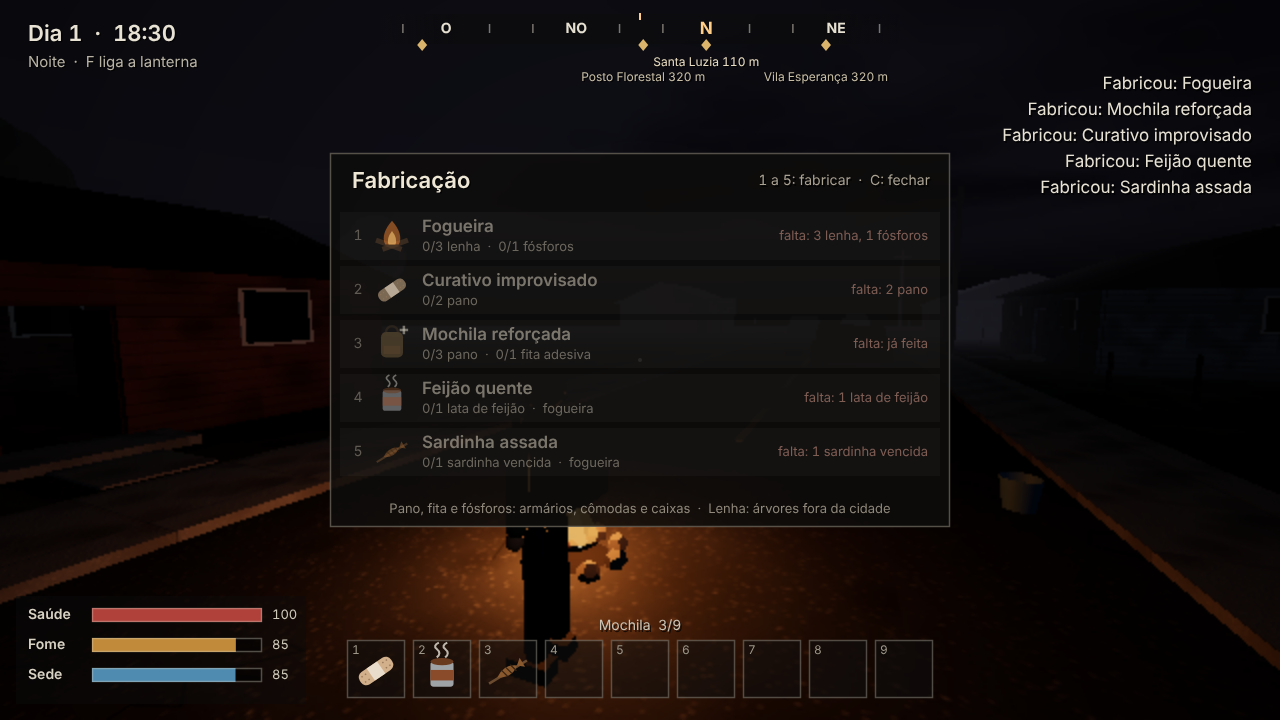
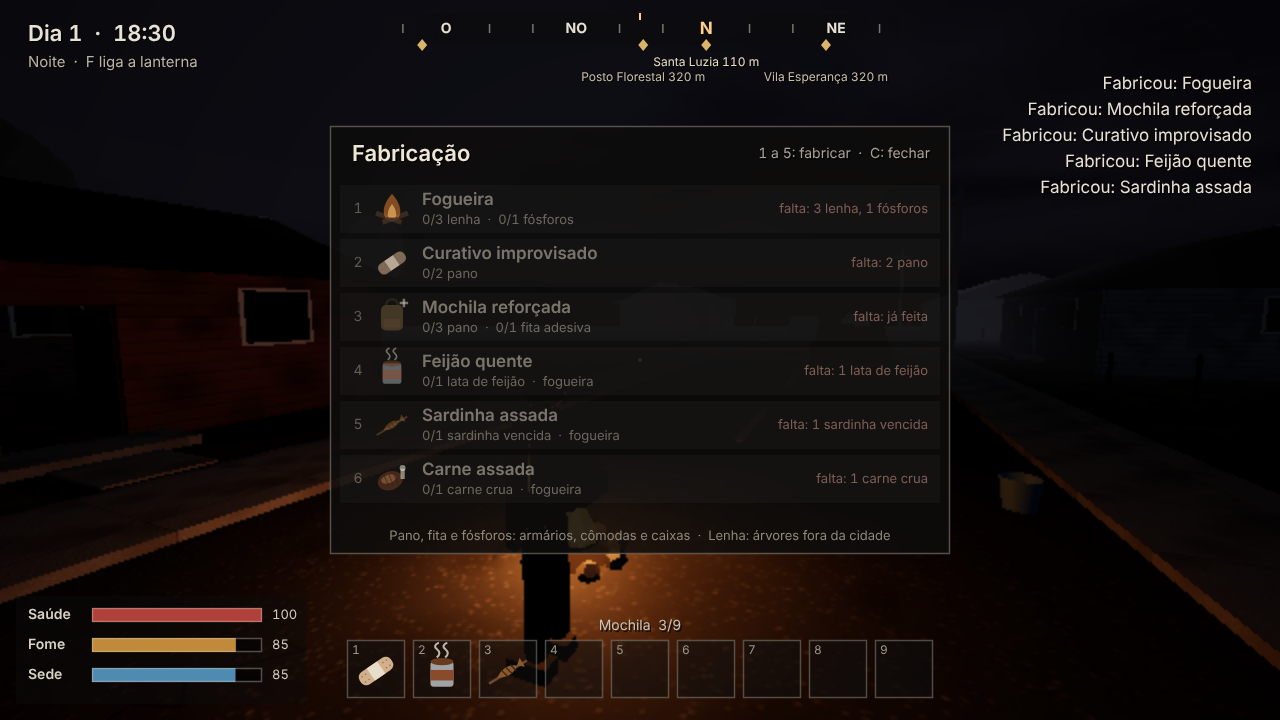
feat: animais para caçar (cervo, javali, coelho) e carne
Animais pastam e andam pelas florestas e campos, fogem do barulho, de
tiros e de quem chega perto; javali ferido ataca. Abatido, segura E para
esfolar e pegar carne crua, que faz mal crua e vira carne assada na
fogueira. Até 10 animais em volta (6 no celular).

Story: SPIKE sobrevivencia-spike-2026-11-20

Claude-Session: https://claude.ai/code/session_013o8aek17KGRmKMrjDa2EVT

diff --git a/prototypes/sobrevivencia-spike-2026-11-20/index.html b/prototypes/sobrevivencia-spike-2026-11-20/index.html
@@ -333,6 +333,8 @@ const sfx = {
     noise(G[0], G[1], G[2], 0.6); tone(G[3], G[0] * 1.2, 'sine', 0.6, -30); noise(G[0] * 3, 400, G[2] * 0.25, 0.5, 0.12); noise(G[0] * 4, 250, G[2] * 0.12, 0.5, 0.35); // crack, thump, echoes
   },
   dry: () => tone(2400, 0.03, 'square', 0.08),
+  animalHurt: k => k === 'javali' ? (tone(140, 0.3, 'sawtooth', 0.12, -60), noise(0.25, 300, 0.2, 2)) : k === 'cervo' ? tone(700, 0.35, 'sine', 0.1, -300) : tone(1500, 0.15, 'sine', 0.08, 600),
+  animalAlarm: (k, d) => { const v = Math.max(0.02, 0.12 * (1 - d / 60)); if (k === 'cervo') tone(900, 0.2, 'sine', v, -400); else if (k === 'javali') { tone(110, 0.25, 'sawtooth', v, 20); noise(0.2, 250, v * 1.5, 2); } else noise(0.08, 3000, v * 0.6, 2); },
   reloadStart: () => { noise(0.06, 2000, 0.15, 3); noise(0.05, 1500, 0.12, 3, 0.25); },
   reloadEnd: () => { noise(0.05, 2600, 0.2, 4); tone(900, 0.04, 'square', 0.06); },
   gunPick: () => { noise(0.05, 2200, 0.15, 3); noise(0.06, 1200, 0.1, 2, 0.08); },
@@ -365,6 +367,10 @@ const ITEMS = {
   bala_escopeta: { name: 'Cartucho de escopeta', ammo: true, material: true },
   bala_sniper: { name: 'Munição de sniper', ammo: true, material: true },
   bala_fuzil: { name: 'Munição de fuzil', ammo: true, material: true },
+  carne_crua: {
+    name: 'Carne crua', use() { need('hunger', tune.raw_meat_food); sfx.eat(); if (rng() < tune.raw_meat_sick_chance) { state.sick = tune.sick_time; say('A carne crua fez mal.'); sfx.sick(); } },
+  },
+  carne_assada: { name: 'Carne assada', use() { need('hunger', tune.cooked_meat_food); sfx.eat(); } },
   pano: { name: 'Pano', material: true },
   fita: { name: 'Fita adesiva', material: true },
   fosforos: { name: 'Fósforos', material: true },
@@ -1386,13 +1392,14 @@ function removeItems(id, n) {
 }
 
 // ---- Crafting ------------------------------------------------------------------------------
-const WHERE = { pano: 'armários, cômodas e caixas', fita: 'caixas e armários', fosforos: 'cômodas e armários', lenha: 'árvores fora da cidade', feijao: 'armários', sardinha: 'armários e geladeiras' };
+const WHERE = { carne_crua: 'animais caçados', pano: 'armários, cômodas e caixas', fita: 'caixas e armários', fosforos: 'cômodas e armários', lenha: 'árvores fora da cidade', feijao: 'armários', sardinha: 'armários e geladeiras' };
 const RECIPES = [
   { id: 'fogueira', name: 'Fogueira', needs: { lenha: 3, fosforos: 1 }, what: 'ilumina a noite e cozinha', make: () => placeFire() },
   { id: 'curativo', name: 'Curativo improvisado', needs: { pano: 2 }, out: 'curativo', what: '+saúde' },
   { id: 'mochila', name: 'Mochila reforçada', needs: { pano: 3, fita: 1 }, once: true, what: () => `+${tune.craft_extra_slots} espaços`, make: () => { state.extraSlots += tune.craft_extra_slots; } },
   { id: 'feijao_quente', name: 'Feijão quente', needs: { feijao: 1 }, fire: true, out: 'feijao_quente', what: () => `enche ${tune.beans_cooked_food} de fome` },
   { id: 'sardinha_assada', name: 'Sardinha assada', needs: { sardinha: 1 }, fire: true, out: 'sardinha_assada', what: 'sem risco de passar mal' },
+  { id: 'carne_assada', name: 'Carne assada', needs: { carne_crua: 1 }, fire: true, out: 'carne_assada', what: () => `enche ${tune.cooked_meat_food} de fome` },
 ];
 // What stops a recipe right now, in words; empty when it can be made.
 function missing(r) {
@@ -1674,7 +1681,118 @@ const BROKEN_GLASS = new THREE.MeshStandardMaterial({ color: 0x4a5560, roughness
 // noise: every animal within the radius hears it
 const animals = [];
 function makeNoise(x, z, r) { for (const a of animals) if (!a.dead && Math.hypot(a.x - x, a.z - z) < r) a.heard = { x, z, t: 3 }; }
-function hurtAnimal(a, dmg) {} // filled in by the animals module
+// ---- Animals to hunt: deer, boar, rabbits ------------------------------------------------------
+// They graze and wander, flee from noise and from you, and a hurt boar charges. A dead one can be
+// skinned (hold E) for raw meat, which must be cooked at a fire.
+const AN = CONFIG.fauna;
+const AMAT = {
+  deer: new THREE.MeshStandardMaterial({ color: 0x7a5636, roughness: 0.9 }), deerBelly: new THREE.MeshStandardMaterial({ color: 0xb59a78, roughness: 0.9 }),
+  boar: new THREE.MeshStandardMaterial({ color: 0x3e3530, roughness: 1 }), rabbit: new THREE.MeshStandardMaterial({ color: 0x8a7c68, roughness: 1 }),
+  dark: new THREE.MeshStandardMaterial({ color: 0x1c1714, roughness: 0.8 }), horn: new THREE.MeshStandardMaterial({ color: 0xd8cbb0, roughness: 0.6 }),
+};
+function makeAnimalMesh(kind) {
+  const g = new THREE.Group(), body = new THREE.Group(); g.add(body);
+  const m = (geo, mat, x, y, z, parent = body) => { const o = new THREE.Mesh(geo, mat); o.position.set(x, y, z); o.castShadow = true; parent.add(o); return o; };
+  const legs = [];
+  const leg = (x, z, len, r, mat, y) => { const pv = new THREE.Group(); pv.position.set(x, y, z); body.add(pv); m(new THREE.CylinderGeometry(r, r * 0.7, len, 6), mat, 0, -len / 2, 0, pv); legs.push(pv); };
+  let head;
+  if (kind === 'cervo') {
+    m(new THREE.CapsuleGeometry(0.24, 0.75, 4, 10), AMAT.deer, 0, 1.0, 0).rotation.x = Math.PI / 2;
+    m(new THREE.CapsuleGeometry(0.17, 0.5, 4, 8), AMAT.deerBelly, 0, 0.92, 0.02).rotation.x = Math.PI / 2;
+    const neck = m(new THREE.CylinderGeometry(0.09, 0.13, 0.55, 8), AMAT.deer, 0, 1.3, -0.5); neck.rotation.x = -0.6;
+    head = new THREE.Group(); head.position.set(0, 1.55, -0.68); body.add(head);
+    m(new THREE.BoxGeometry(0.14, 0.15, 0.32), AMAT.deer, 0, 0, -0.08, head); m(new THREE.BoxGeometry(0.08, 0.07, 0.06), AMAT.dark, 0, -0.03, -0.25, head);
+    for (const sx of [-1, 1]) { m(new THREE.ConeGeometry(0.05, 0.16, 5), AMAT.deer, sx * 0.09, 0.1, 0.04, head).rotation.z = sx * -0.7;
+      const ant = m(new THREE.CylinderGeometry(0.012, 0.02, 0.4, 5), AMAT.horn, sx * 0.07, 0.25, 0.02, head); ant.rotation.z = sx * -0.35;
+      m(new THREE.CylinderGeometry(0.01, 0.015, 0.18, 4), AMAT.horn, sx * 0.13, 0.35, -0.04, head).rotation.x = -0.8; }
+    for (const [x, z] of [[-0.13, -0.38], [0.13, -0.38], [-0.13, 0.38], [0.13, 0.38]]) leg(x, z, 0.85, 0.045, AMAT.deer, 0.88);
+    m(new THREE.ConeGeometry(0.05, 0.14, 5), AMAT.deerBelly, 0, 1.08, 0.52).rotation.x = 2.2;
+  } else if (kind === 'javali') {
+    const b = m(new THREE.CapsuleGeometry(0.3, 0.6, 4, 10), AMAT.boar, 0, 0.6, 0); b.rotation.x = Math.PI / 2; b.scale.set(1, 1, 1.15);
+    m(new THREE.BoxGeometry(0.12, 0.25, 0.7), AMAT.dark, 0, 0.92, -0.05); // bristly ridge
+    head = new THREE.Group(); head.position.set(0, 0.6, -0.55); body.add(head);
+    m(new THREE.ConeGeometry(0.22, 0.45, 8), AMAT.boar, 0, 0, -0.18, head).rotation.x = -Math.PI / 2;
+    m(new THREE.CylinderGeometry(0.07, 0.07, 0.06, 8), AMAT.dark, 0, -0.02, -0.42, head).rotation.x = Math.PI / 2;
+    for (const sx of [-1, 1]) { m(new THREE.ConeGeometry(0.015, 0.12, 4), AMAT.horn, sx * 0.08, -0.06, -0.36, head).rotation.x = -2.4; m(new THREE.ConeGeometry(0.05, 0.12, 4), AMAT.boar, sx * 0.12, 0.17, 0.02, head); }
+    for (const [x, z] of [[-0.15, -0.3], [0.15, -0.3], [-0.15, 0.32], [0.15, 0.32]]) leg(x, z, 0.42, 0.06, AMAT.dark, 0.42);
+  } else {
+    const b = m(new THREE.SphereGeometry(0.15, 10, 8), AMAT.rabbit, 0, 0.17, 0.02); b.scale.set(0.85, 0.85, 1.25);
+    head = new THREE.Group(); head.position.set(0, 0.27, -0.16); body.add(head);
+    m(new THREE.SphereGeometry(0.08, 10, 8), AMAT.rabbit, 0, 0, 0, head);
+    for (const sx of [-1, 1]) m(new THREE.CapsuleGeometry(0.02, 0.13, 3, 6), AMAT.rabbit, sx * 0.035, 0.12, 0.03, head).rotation.x = 0.3;
+    m(new THREE.SphereGeometry(0.04, 6, 5), AMAT.deerBelly, 0, 0.2, 0.2);
+    for (const [x, z] of [[-0.06, -0.08], [0.06, -0.08], [-0.07, 0.1], [0.07, 0.1]]) leg(x, z, 0.12, 0.025, AMAT.rabbit, 0.1);
+  }
+  world.add(g); return { g, body, legs, head };
+}
+function spawnAnimal(kind, x, z) {
+  const d = AN[kind], v = makeAnimalMesh(kind);
+  const a = { kind, x, z, yaw: rng() * 6.28, hp: d.hp, r: d.r, h: d.h, mode: 'idle', t: 1 + rng() * 3, tx: x, tz: z, phase: 0, speed: 0, dead: false, fallen: 0, cool: 0, heard: null, ...v };
+  animals.push(a); placeAnimal(a); return a;
+}
+function placeAnimal(a) { a.g.position.set(a.x, 0, a.z); a.g.rotation.y = a.yaw; }
+function freeSpot(x, z) {
+  return !roadRects.some(r => x > r[0] && x < r[1] && z > r[2] && z < r[3]) && !footprints.some(r => x > r[0] - 3 && x < r[1] + 3 && z > r[2] - 3 && z < r[3] + 3) && !lakes.some(l => Math.hypot(x - l.x, z - l.z) < l.r + 3);
+}
+function animalBlocked(x, z, r) {
+  for (const b of boxesNear(x, z)) if (x > b.x0 - r && x < b.x1 + r && z > b.z0 - r && z < b.z1 + r) return true;
+  return lakes.some(l => Math.hypot(x - l.x, z - l.z) < l.r + r);
+}
+function hurtAnimal(a, dmg) {
+  if (a.dead) return;
+  a.hp -= dmg; sfx.animalHurt(a.kind);
+  if (a.hp <= 0) { a.dead = true; a.mode = 'dead'; a.skinned = false; say(`Você abateu ${AN[a.kind].article}.`); return; }
+  const s = state;
+  if (a.kind === 'javali') { a.mode = 'charge'; a.t = 8; } else { a.mode = 'flee'; a.t = 6; a.tx = a.x + (a.x - s.x) * 3; a.tz = a.z + (a.z - s.z) * 3; }
+}
+function stepAnimals(dt) {
+  const s = state, maxN = LIGHT ? tune.animals_mobile : tune.animals;
+  // keep a herd around you: spawn out of sight, drop the far ones
+  if (Math.floor(s.t * 60) % 120 === 0) {
+    for (let i = animals.length - 1; i >= 0; i--) { const a = animals[i]; if (Math.hypot(a.x - s.x, a.z - s.z) > 280) { world.remove(a.g); animals.splice(i, 1); } }
+    if (animals.filter(a => !a.dead).length < maxN) {
+      const ang = rng() * 6.28, dist = 90 + rng() * 80, x = s.x + Math.cos(ang) * dist, z = s.z + Math.sin(ang) * dist;
+      if (freeSpot(x, z)) { const r = rng(); spawnAnimal(r < 0.4 ? 'coelho' : r < 0.78 ? 'cervo' : 'javali', x, z); }
+    }
+  }
+  for (const a of animals) {
+    const d = AN[a.kind];
+    if (a.dead) { a.fallen = Math.min(1, a.fallen + dt * 2.5); a.body.rotation.z = a.fallen * Math.PI / 2; a.body.position.y = -a.fallen * a.h * 0.05; continue; }
+    const pd = Math.hypot(s.x - a.x, s.z - a.z);
+    // senses: noise, and you, closer when you run, farther when you crouch still
+    const loud = s.driving ? 60 : s.speedNow > 4.5 ? d.notice * 1.4 : s.speedNow > 0.5 ? d.notice : d.notice * 0.45;
+    if (a.mode !== 'charge' && a.mode !== 'flee' && (pd < loud || a.heard)) {
+      const fx = a.heard ? a.heard.x : s.x, fz = a.heard ? a.heard.z : s.z;
+      a.mode = 'flee'; a.t = 5 + rng() * 3; a.tx = a.x + (a.x - fx) * 4; a.tz = a.z + (a.z - fz) * 4; sfx.animalAlarm(a.kind, pd);
+    }
+    a.heard = null; a.t -= dt; a.cool -= dt;
+    let speed = 0;
+    if (a.mode === 'idle') { if (a.t <= 0) { a.mode = 'walk'; a.t = 3 + rng() * 5; const ang = rng() * 6.28; a.tx = a.x + Math.cos(ang) * 12; a.tz = a.z + Math.sin(ang) * 12; } }
+    else if (a.mode === 'walk') { speed = d.walk; if (a.t <= 0 || Math.hypot(a.tx - a.x, a.tz - a.z) < 1) { a.mode = 'idle'; a.t = 2 + rng() * 5; } }
+    else if (a.mode === 'flee') { speed = d.run; if (a.t <= 0) { a.mode = 'idle'; a.t = 2; } }
+    else if (a.mode === 'charge') {
+      speed = d.run; a.tx = s.x; a.tz = s.z;
+      if (pd < 1.5 && a.cool <= 0 && !s.driving) { s.health -= d.damage; a.cool = 1.3; say(`O javali te atacou! -${d.damage}`); sfx.thud(); sfx.animalHurt('javali'); }
+      if (a.t <= 0 || pd > 45) { a.mode = 'flee'; a.t = 4; }
+    }
+    if (speed > 0) {
+      const want = Math.atan2(-(a.tx - a.x), -(a.tz - a.z)); a.yaw = lerpAngle(a.yaw, want, Math.min(1, 5 * dt));
+      const nx = a.x - Math.sin(a.yaw) * speed * dt, nz = a.z - Math.cos(a.yaw) * speed * dt;
+      if (!animalBlocked(nx, nz, a.r)) { a.x = nx; a.z = nz; } else { a.yaw += 1.2 + rng(); a.tx = a.x - Math.sin(a.yaw) * 15; a.tz = a.z - Math.cos(a.yaw) * 15; }
+    }
+    a.speed = speed; a.phase += speed * dt * (a.kind === 'coelho' ? 9 : 3.2);
+    placeAnimal(a);
+    const sw = Math.sin(a.phase) * Math.min(1, speed / 2) * (a.kind === 'coelho' ? 0.9 : 0.6);
+    a.legs.forEach((l, i) => l.rotation.x = (a.kind === 'coelho' ? (i < 2 ? sw : sw) : (i === 0 || i === 3 ? sw : -sw)));
+    if (a.kind === 'coelho') a.body.position.y = Math.max(0, Math.sin(a.phase)) * 0.12 * Math.min(1, speed);
+    a.head.rotation.x = a.mode === 'idle' ? 0.5 + Math.sin(s.t * 1.3 + a.x) * 0.1 : 0; // grazing
+  }
+}
+function carcassNear() {
+  let best = null, bd = 2.2;
+  for (const a of animals) if (a.dead && !a.skinned) { const d = Math.hypot(a.x - state.x, a.z - state.z); if (d < bd) { bd = d; best = a; } }
+  return best;
+}
 function stepGuns(dt) {
   const s = state;
   if (s.cool > 0) s.cool -= dt;
@@ -1736,11 +1854,12 @@ function reset() {
     x: 0, z: 118, px: 0, pz: 118, yaw: 0, pitch: 0,
     hour: sh !== null ? Number(sh) : tune.start_hour, startHour: sh !== null ? Number(sh) : tune.start_hour,
     health: 100, hunger: tune.start_hunger, thirst: tune.start_thirst, sick: 0,
-    inv: [{ id: 'agua', n: 1 }, { id: 'cereal', n: 1 }], extraSlots: 0, craftOpen: false, gun: null, aiming: false, reload: null, cool: 0, kick: 0, flashT: 0, pickAnim: 0, guns: Object.fromEntries(Object.keys(CONFIG.guns).map(g => [g, { has: false, mag: 0 }])), driving: null, hold: null, act: null, y: 0, air: false, airVy: 0, lookT: 9, found: ['Santa Luzia'], chop: null, tree: null, flash: false, search: null, aim: null, msgs: [],
+    inv: [{ id: 'agua', n: 1 }, { id: 'cereal', n: 1 }], extraSlots: 0, craftOpen: false, skin: null, carcass: null, gun: null, aiming: false, reload: null, cool: 0, kick: 0, flashT: 0, pickAnim: 0, guns: Object.fromEntries(Object.keys(CONFIG.guns).map(g => [g, { has: false, mag: 0 }])), driving: null, hold: null, act: null, y: 0, air: false, airVy: 0, lookT: 9, found: ['Santa Luzia'], chop: null, tree: null, flash: false, search: null, aim: null, msgs: [],
     walked: 0, bob: 0, heart: 0, face: 0, crouch: 0, speedNow: 0, searched: 0, eaten: 0, days: 0, dead: false,
   };
   for (const c of containers) { c.items = fillContainer(c); c.searched = false; c.refillAt = 0; }
   clearFires(); for (const d of decals) d.parent && d.parent.remove(d); decals.length = 0;
+  for (const a of animals) world.remove(a.g); animals.length = 0;
   if (playerBody.world !== phys) phys.addBody(playerBody);
   playerBody.position.set(state.x, 0.05, state.z); playerBody.velocity.setZero();
   for (const c of cars) c.fuel = Math.floor(rng() * tune.car_start_fuel_max);
@@ -2100,7 +2219,8 @@ const scenes = {
         if (Math.hypot(f.x - s.x, f.z - s.z) < 25) say('A fogueira apagou.');
       }
       if (pressed('KeyF')) { s.flash = !s.flash; sfx.click(); }
-      stepGuns(dt); stepParticles(dt); if (s.pickAnim > 0) s.pickAnim -= dt;
+      stepGuns(dt); stepParticles(dt); stepAnimals(dt); if (s.pickAnim > 0) s.pickAnim -= dt;
+      if (!s.driving && s.speedNow > 4.5 && Math.floor(s.t * 60) % 20 === 0) makeNoise(s.x, s.z, 22);
       // search
       placeCamera();
       const c = s.driving ? null : aimContainer(); s.aim = c;
@@ -2123,7 +2243,19 @@ const scenes = {
         if (s.act && pressed('KeyE')) doAct(s.act);
       }
       if (pressed('KeyG') && !s.driving) grabOrThrow();
-      const tr = c || s.act || s.driving ? null : aimTree(); s.tree = tr;
+      const carc = c || s.act || s.driving ? null : carcassNear(); s.carcass = carc;
+      if (carc && down.has('KeyE')) {
+        if (!s.skin || s.skin.a !== carc) s.skin = { a: carc, p: 0, n: 0 };
+        s.skin.p += dt / tune.skin_time; if (s.skin.p * 6 > s.skin.n) { s.skin.n++; sfx.rustle(); }
+        s.face = lerpAngle(s.face, Math.atan2(-(carc.x - s.x), -(carc.z - s.z)), Math.min(1, 10 * dt));
+        if (s.skin.p >= 1) {
+          carc.skinned = true; s.skin = null; let got = 0;
+          for (let i = 0; i < AN[carc.kind].meat; i++) if (addItem('carne_crua')) got++;
+          say(got ? `Pegou: ${got} × Carne crua` : 'Mochila cheia.'); sfx.pick(); s.pickAnim = 0.7;
+          setTimeout(() => { world.remove(carc.g); const i = animals.indexOf(carc); if (i >= 0) animals.splice(i, 1); }, 0);
+        }
+      } else s.skin = null;
+      const tr = c || s.act || s.driving || carc ? null : aimTree(); s.tree = tr;
       if (tr && down.has('KeyE')) {
         if (!s.chop || s.chop.t !== tr) s.chop = { t: tr, p: 0, n: 0 };
         s.chop.p += dt / tune.chop_time;
@@ -2131,7 +2263,7 @@ const scenes = {
         s.face = lerpAngle(s.face, Math.atan2(-(tr.x - s.x), -(tr.z - s.z)), Math.min(1, 10 * dt));
         if (s.chop.p >= 1) { s.chop = null; if (addItem('lenha')) { say('Pegou: Lenha'); sfx.pick(); } else { say('Mochila cheia: sem espaço para a lenha.'); sfx.empty(); } }
       } else s.chop = null;
-      s.crouch += ((s.search ? 1 : 0) - s.crouch) * Math.min(1, 10 * dt);
+      s.crouch += ((s.search || s.skin ? 1 : 0) - s.crouch) * Math.min(1, 10 * dt);
       if (s.search) { const p = s.search.c.group.position; s.face = lerpAngle(s.face, Math.atan2(-(p.x - s.x), -(p.z - s.z)), Math.min(1, 10 * dt)); }
       for (const m of s.msgs) m.life -= dt;
       s.msgs = s.msgs.filter(m => m.life > 0);
@@ -2220,6 +2352,12 @@ function icon(id, x, y, s) { // x,y centre; every item drawn
     const col = { bala_pistola: '#c9a24a', bala_escopeta: '#a8322a', bala_sniper: '#b08a3a', bala_fuzil: '#9a8a4a' }[id];
     ctx.fillStyle = '#3b3a34'; rr(-16, -2, 32, 18, 2); ctx.fill();
     for (let i = 0; i < 4; i++) { const x = -12 + i * 8; ctx.fillStyle = col; ctx.fillRect(x - 2.5, -14, 5, 14); ctx.fillStyle = id === 'bala_escopeta' ? '#c9a24a' : '#8a6a3a'; ctx.beginPath(); ctx.moveTo(x - 2.5, -14); ctx.lineTo(x, -19); ctx.lineTo(x + 2.5, -14); ctx.fill(); }
+  } else if (id === 'carne_crua' || id === 'carne_assada') {
+    const raw = id === 'carne_crua';
+    ctx.fillStyle = raw ? '#a8353a' : '#6e3d22'; ctx.beginPath(); ctx.ellipse(-2, 2, 15, 11, -0.3, 0, Math.PI * 2); ctx.fill();
+    ctx.fillStyle = raw ? '#e6b0a8' : '#a5704a'; ctx.beginPath(); ctx.ellipse(-4, 0, 9, 5, -0.3, 0, Math.PI * 2); ctx.fill();
+    ctx.fillStyle = '#ece3cf'; ctx.fillRect(10, -12, 5, 12); ctx.beginPath(); ctx.arc(12.5, -13, 3.5, 0, Math.PI * 2); ctx.fill();
+    if (!raw) { ctx.strokeStyle = '#3a2010'; ctx.lineWidth = 1.5; for (const x of [-10, -4, 2]) { ctx.beginPath(); ctx.moveTo(x, -6); ctx.lineTo(x + 6, 8); ctx.stroke(); } }
   } else if (id === 'galao') {
     ctx.fillStyle = '#a32d22'; rr(-13, -12, 26, 30, 3); ctx.fill(); ctx.fillStyle = '#7d2019'; ctx.fillRect(-13, -12, 26, 5);
     ctx.strokeStyle = '#d9c9b0'; ctx.lineWidth = 2; ctx.beginPath(); ctx.moveTo(-9, -4); ctx.lineTo(9, 14); ctx.moveTo(9, -4); ctx.lineTo(-9, 14); ctx.stroke();
@@ -2342,6 +2480,11 @@ function drawHud(day) {
     const a = s.act, k = TOUCH ? 'VASCULHAR' : 'E';
     const label = a.kind === 'car' ? `${k}: entrar no carro  ·  combustível ${Math.round(a.car.fuel)}%` : a.kind === 'door' ? `${k}: ${a.door.open ? 'fechar' : 'abrir'} a porta` : `${k}: abastecer o carro (${a.pump.uses} restam)`;
     shadowText(label, W / 2, H / 2 + 48, 20, '#fff');
+  } else if (s.skin) {
+    shadowText('Esfolando…', W / 2, H / 2 + 48, 20, '#fff');
+    ctx.fillStyle = 'rgba(0,0,0,0.6)'; ctx.fillRect(W / 2 - 90, H / 2 + 66, 180, 8); ctx.fillStyle = '#b0413a'; ctx.fillRect(W / 2 - 90, H / 2 + 66, 180 * Math.min(1, s.skin.p), 8);
+  } else if (s.carcass) {
+    shadowText(`${TOUCH ? 'Segure VASCULHAR' : 'Segure E'}: esfolar ${AN[s.carcass.kind].name}`, W / 2, H / 2 + 48, 20, '#fff');
   } else if (s.chop) {
     shadowText('Cortando lenha…', W / 2, H / 2 + 48, 20, '#fff');
     ctx.fillStyle = 'rgba(0,0,0,0.6)'; ctx.fillRect(W / 2 - 90, H / 2 + 66, 180, 8);

diff --git a/prototypes/sobrevivencia-spike-2026-11-20/config.js b/prototypes/sobrevivencia-spike-2026-11-20/config.js
@@ -79,6 +79,14 @@ window.CONFIG = {
   gun_find_mult: { value: 1, min: 0, max: 5, step: 0.1 },       // multiplica a chance de achar armas
   max_decals: { value: 80, min: 10, max: 300, step: 10 },       // marcas de tiro no mundo
 
+  // --- Animais ---
+  animals: { value: 10, min: 0, max: 40, step: 1 },             // vivos em volta (computador)
+  animals_mobile: { value: 6, min: 0, max: 30, step: 1 },       // vivos em volta (celular)
+  skin_time: { value: 3, min: 0.5, max: 10, step: 0.25 },       // segundos segurando E para esfolar
+  raw_meat_food: { value: 20, min: 0, max: 100, step: 1 },
+  raw_meat_sick_chance: { value: 0.6, min: 0, max: 1, step: 0.05 },
+  cooked_meat_food: { value: 45, min: 0, max: 100, step: 1 },
+
   // --- Câmera em terceira pessoa ---
   cam_distance: { value: 2.8, min: 1, max: 6, step: 0.1 },    // m atrás do personagem
   cam_shoulder: { value: 0.55, min: -1.5, max: 1.5, step: 0.05 }, // m para o lado (positivo: ombro direito)
@@ -102,6 +110,14 @@ window.CONFIG = {
   fog_night_far: { value: 50, min: 15, max: 150, step: 5 },   // m à noite
 
   volume: { value: 0.5, min: 0, max: 1, step: 0.05 },
+
+  // Animais: vida, velocidade andando e fugindo (m/s), raio para o tiro (m), altura (m), carne,
+  // distância em que te percebem andando (m), dano do ataque (javali).
+  fauna: {
+    cervo: { name: 'o cervo', article: 'um cervo', hp: 80, walk: 1.4, run: 9, r: 0.55, h: 1.5, meat: 4, notice: 32, damage: 0 },
+    javali: { name: 'o javali', article: 'um javali', hp: 110, walk: 1.2, run: 7, r: 0.5, h: 0.9, meat: 3, notice: 22, damage: 15 },
+    coelho: { name: 'o coelho', article: 'um coelho', hp: 15, walk: 1.0, run: 7, r: 0.22, h: 0.35, meat: 1, notice: 14, damage: 0 },
+  },
 
   // Armas: carregador (mag), dano, tempo entre tiros (s), abertura (rad), alcance (m), recarga (s),
   // chumbos por tiro, força do impacto, coice (rad), raio do barulho (m), chance de achar por móvel,
